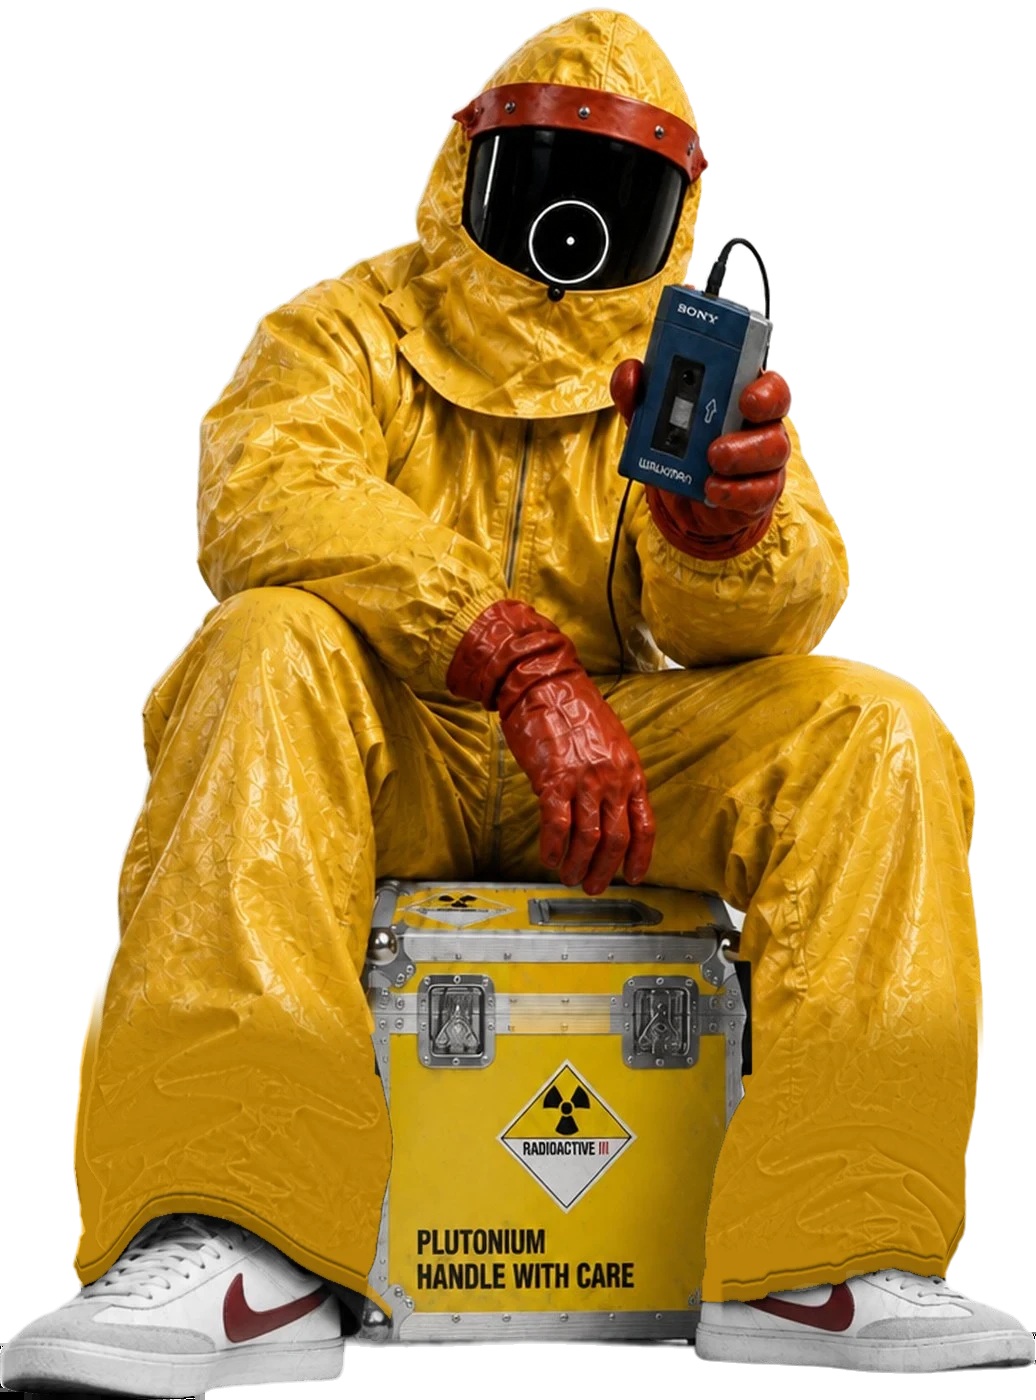
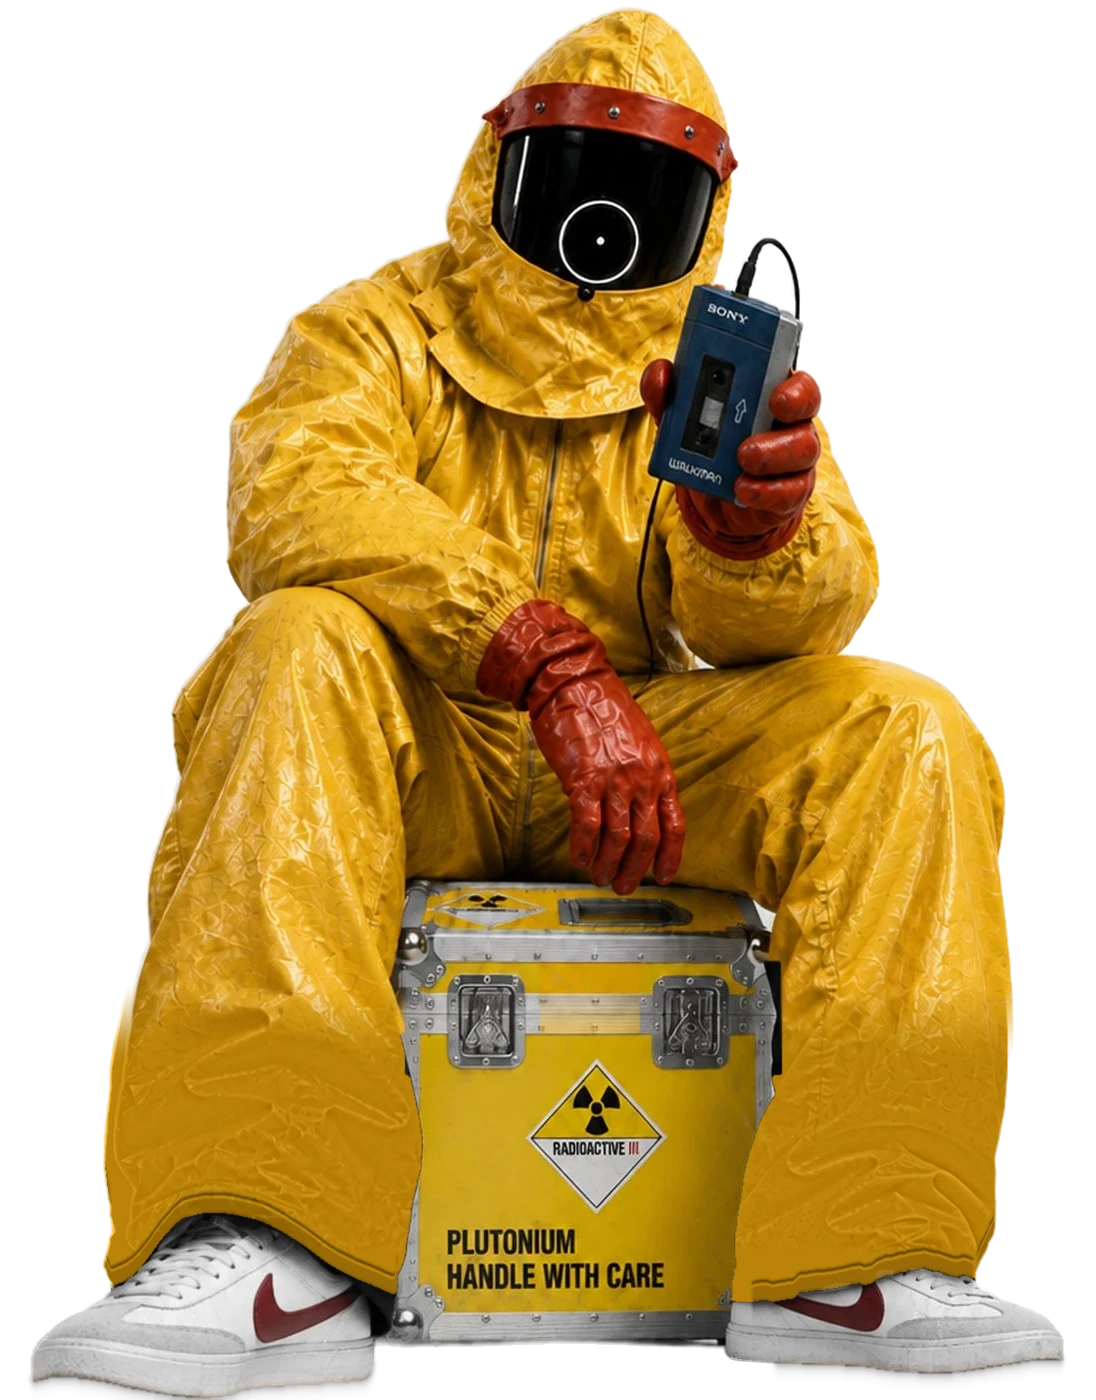
Hero cutouts: full toe tips, clean soles and contact shadow
- Both cutouts get 30px side padding; the shoe bottoms are re-taken from
  the source photo so the toe tips are complete instead of cut flat at
  the old crop edge.
- Sole-bottom smear and stray floor pixels removed; a soft synthetic
  contact shadow is drawn under each shoe (identical in both states).
- Heel next to the case corner kept intact; trails fade out at the shoes.
- Figure drop-shadow moved to an unmasked wrapper.

Claude-Session: https://claude.ai/code/session_01W5NmLrmCfpinZRZs12n3aL

Changed region(s): [[0.0, 0.0614, 0.6178, 1.0], [0.5251, 0.0, 1.0, 1.0], [0.4942, 0.1536, 0.5251, 0.1843]]

diff --git a/index.html b/index.html
@@ -114,8 +114,10 @@
   .ghost.me-trail, .ghost.suit-trail { transition: opacity .6s; }
 
   /* Figure + Meta Ray-Ban capture LED */
-  .figure { position: absolute; z-index: 4; left: 50%; bottom: 0; height: 88%; aspect-ratio: 1036 / 1400; transform: translateX(-50%); pointer-events: none; }
-  .figure img { width: 100%; height: 100%; max-width: none; filter: drop-shadow(0 22px 26px rgba(0,0,0,.18)); }
+  .figure { position: absolute; z-index: 4; left: 50%; bottom: 0; height: 88%; aspect-ratio: 1096 / 1400; transform: translateX(-50%); pointer-events: none; }
+  .figure img { width: 100%; height: 100%; max-width: none; }
+  /* shadow on the wrapper, not the masked images (a masked drop-shadow gets cropped into a hard grey slab) */
+  .figure .shadowed { position: absolute; inset: 0; filter: drop-shadow(0 10px 16px rgba(0,0,0,.14)); }
   /* Hover the figure: Charlie morphs into his Odyssey avatar (hazmat suit + Walkman), revealed from the cursor */
   /* Suit up: the costume drops over him head-to-toe (soft wipe + a small settle) and lifts back off. Head, shoes and case are
      registered pixel-for-pixel between the two cutouts, so only the suit itself moves. */
@@ -451,8 +453,10 @@
     <img class="ghost me-trail" src="assets/charlie-trail-v2.webp" alt="" aria-hidden="true">
     <img class="ghost suit-trail" src="assets/charlie-hazmat-trail.webp" alt="" aria-hidden="true">
     <div class="figure">
+      <div class="shadowed">
       <img class="me" src="assets/charlie-cutout.webp" alt="Black-and-white portrait of Charlie Hinojosa wearing Ray-Ban Meta glasses and white 1985 Nike sneakers with red swooshes, seated on the yellow Back to the Future plutonium case, shown in full color, his left hand on top showing a black wedding band. Hover to morph into his music avatar: a figure in a yellow radiation suit and the same white Nikes, holding up a Sony Walkman.">
       <img class="suit" src="assets/charlie-hazmat-cutout.webp" alt="" aria-hidden="true">
+      </div>
       <button class="led" type="button" id="led" aria-haspopup="dialog" aria-controls="pov"><span class="sr">See through Charlie's Ray-Ban Meta glasses</span></button>
       <span class="led-tip" aria-hidden="true">“Hey Meta, record”</span>
     </div>
